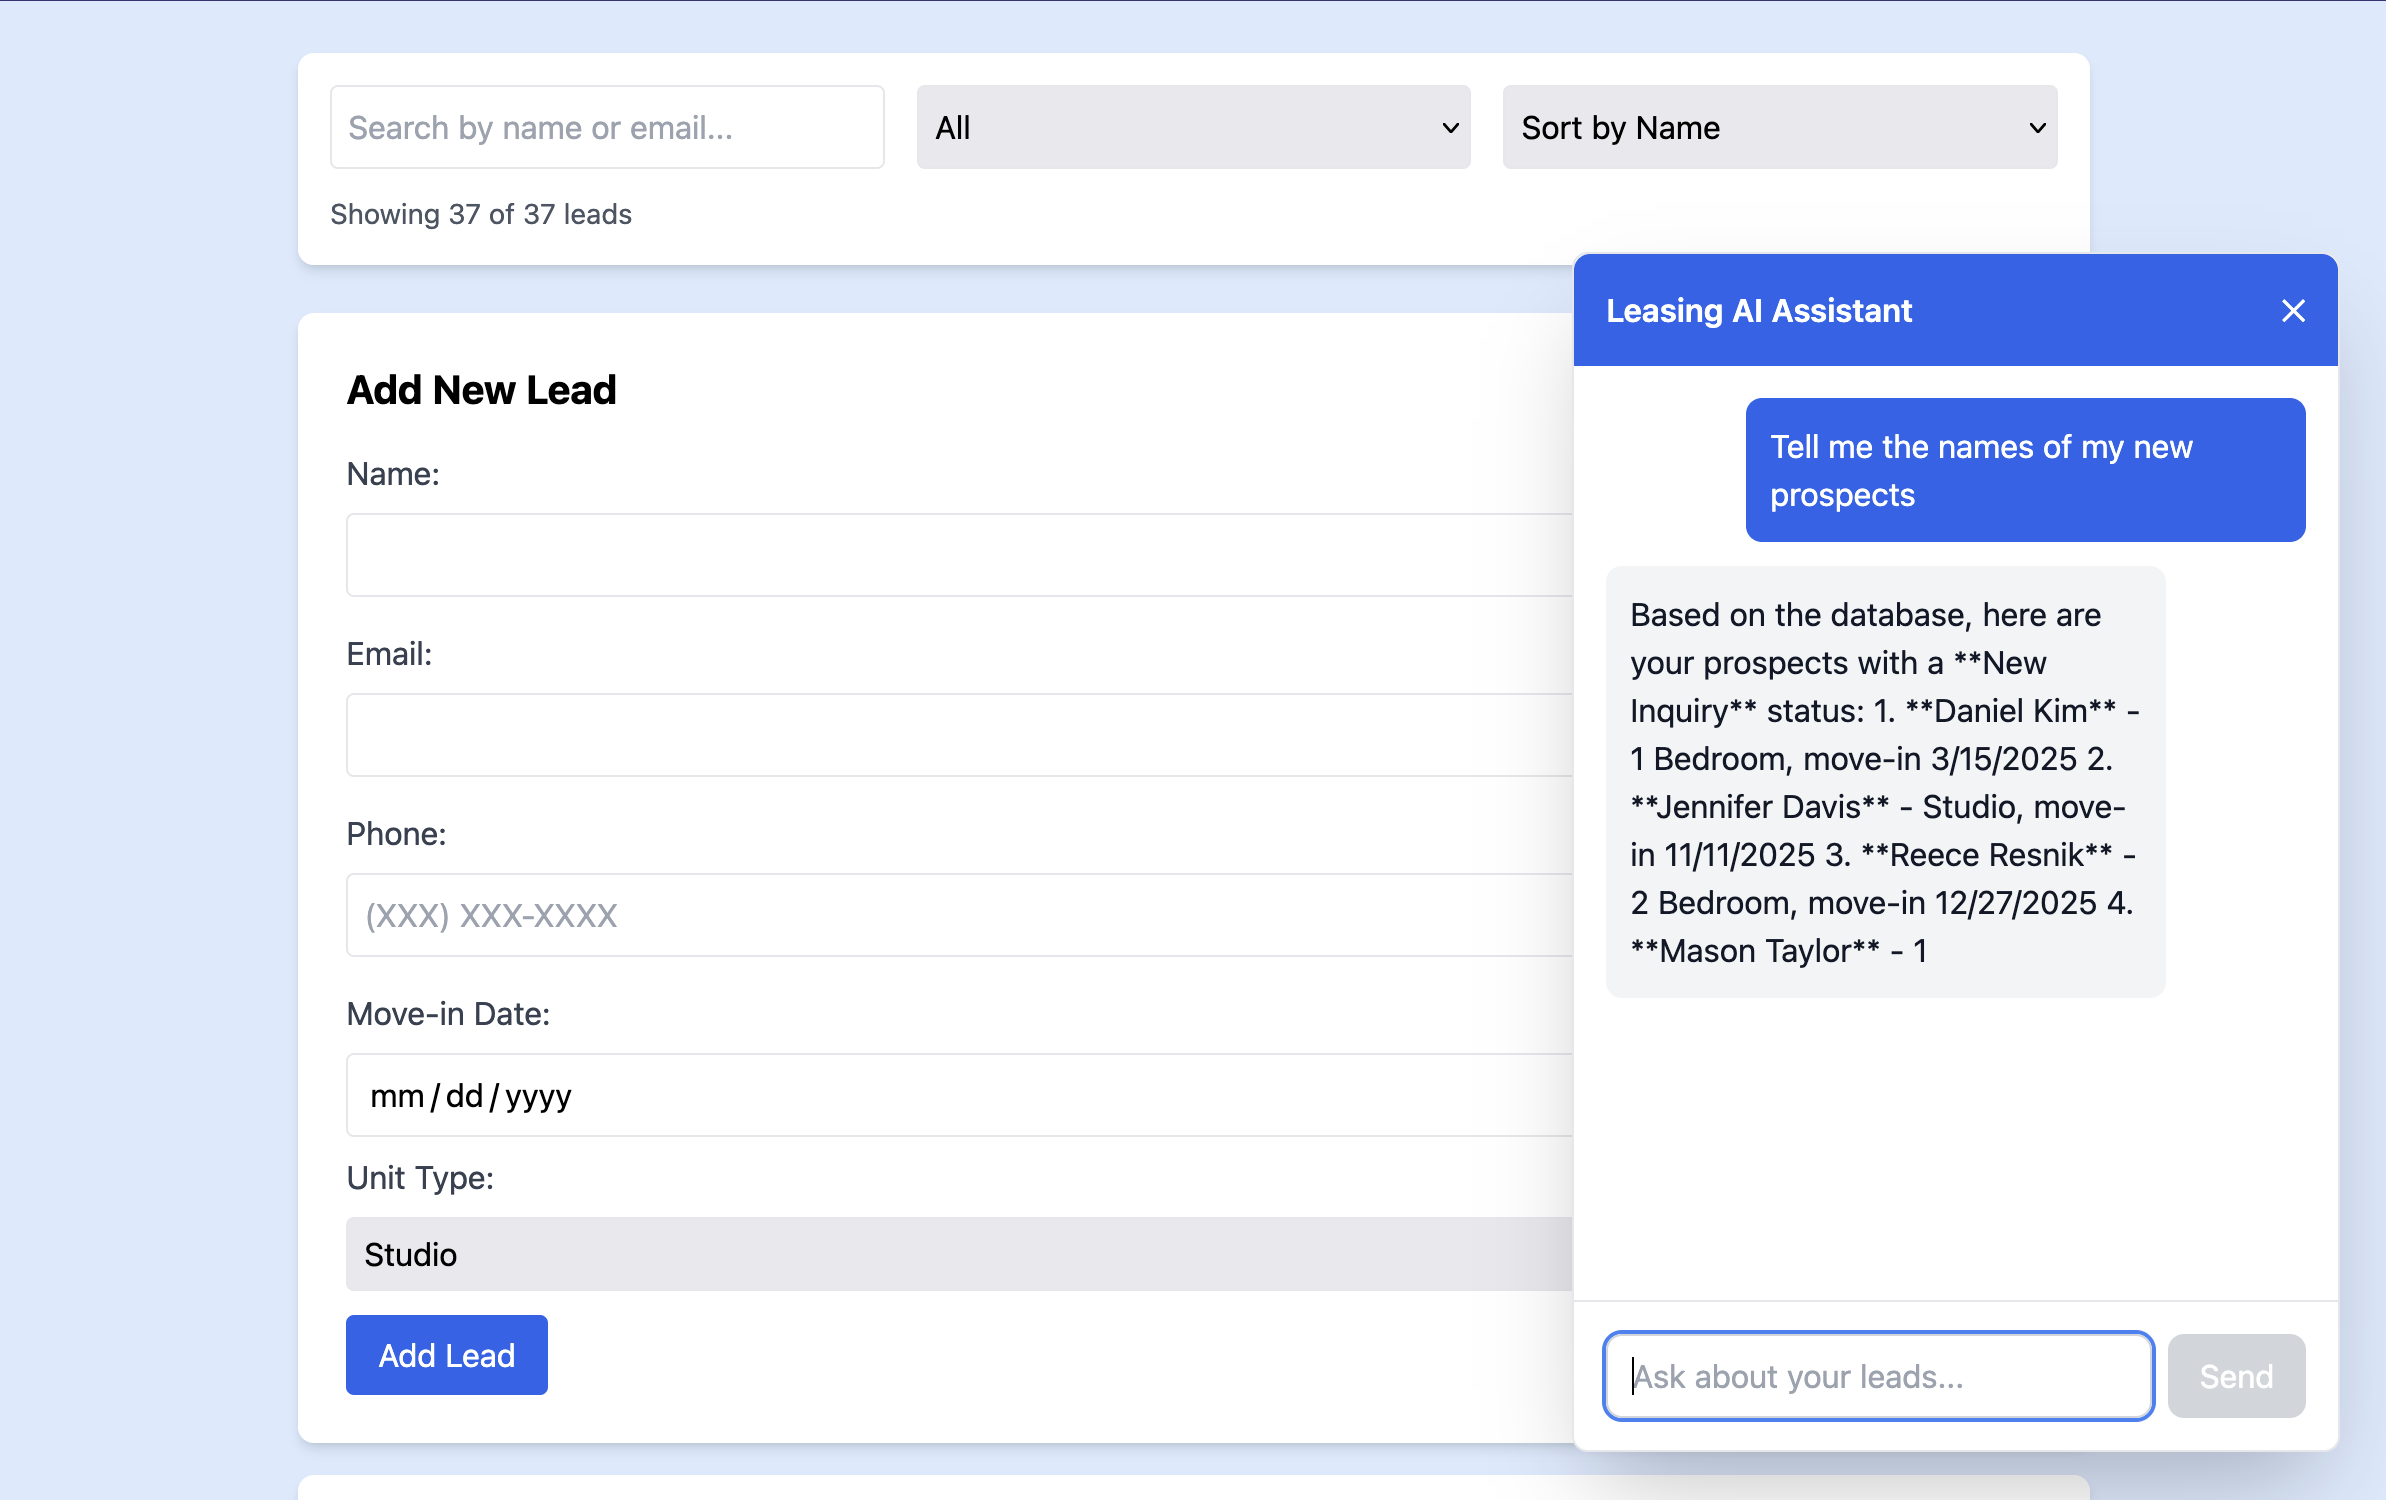
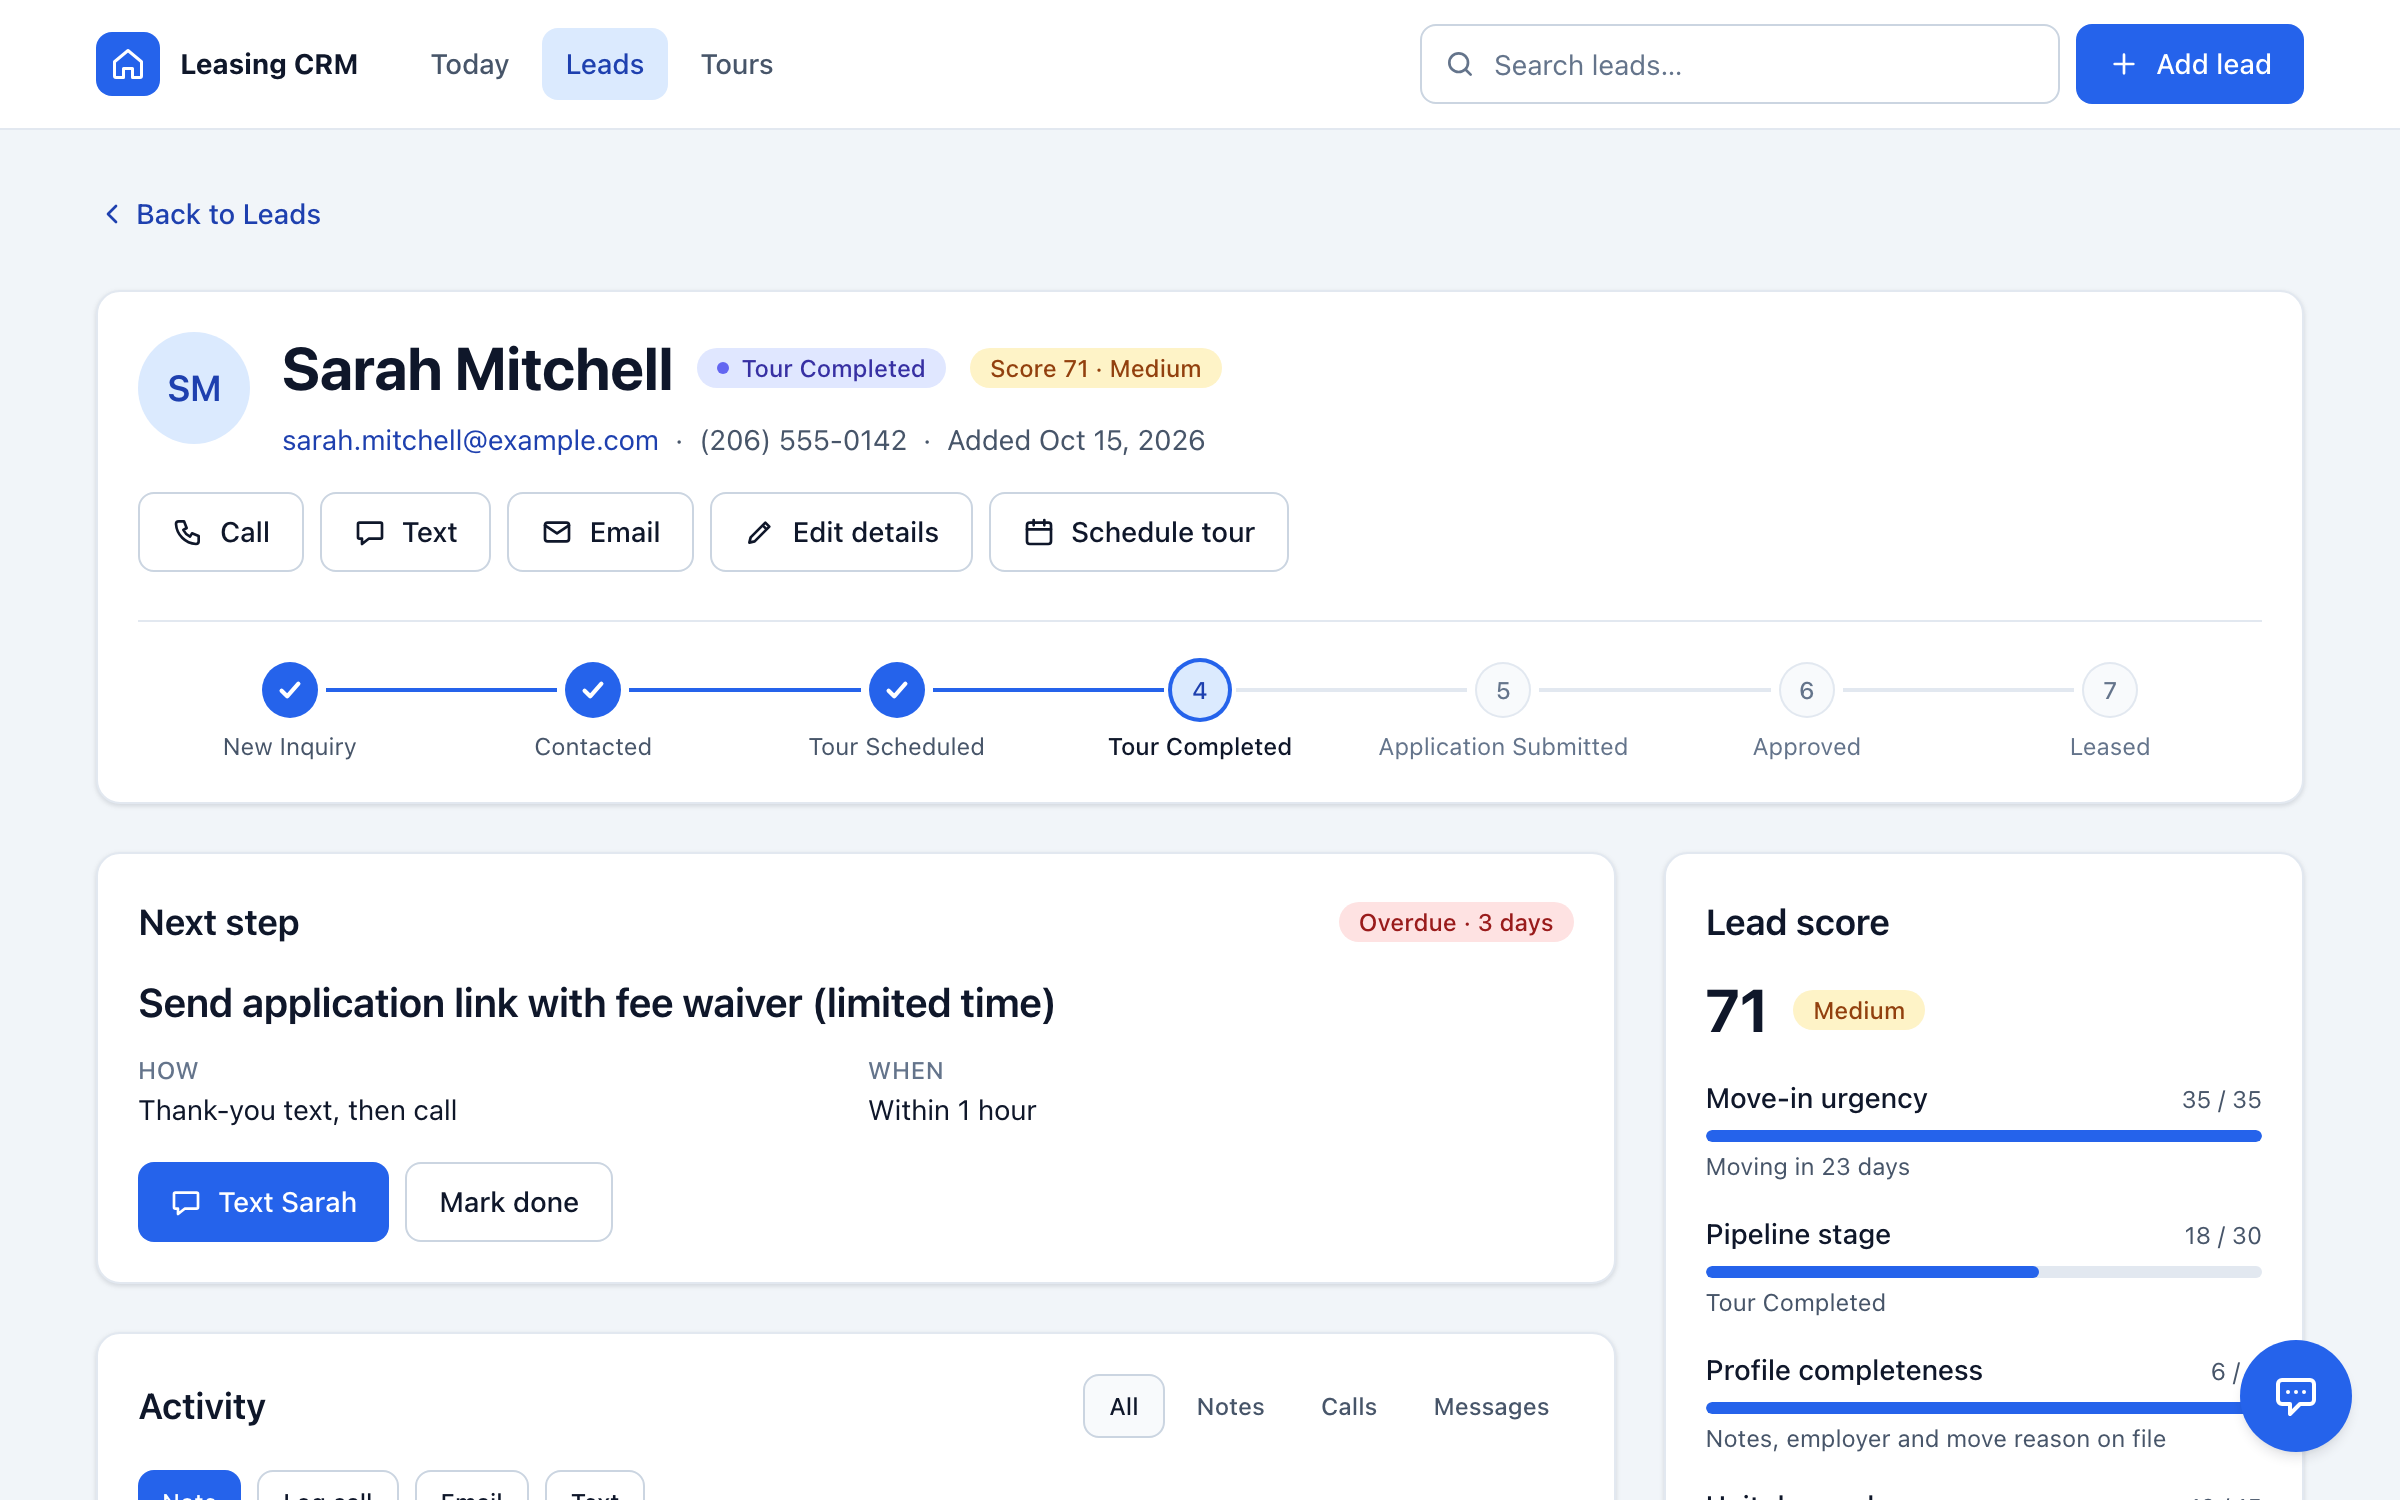
Update the Leasing CRM card for the new app
The Leasing CRM now has a Today dashboard, lead workspaces and a tour
calendar, so the card shows the new app: its image is a lead workspace
from the live site (2400 x 1500, like the other captures), and the copy
describes the new screens. Next.js leaves the technologies, since the
app is React with Vite.

Lighthouse 94 is the median of three mobile performance runs on the
live site. The card keeps to five short points, and its description is
short enough that no grid row grows taller.

diff --git a/app/projects/page.tsx b/app/projects/page.tsx
@@ -27,18 +27,20 @@ const projects: Project[] = [
   },
   {
     title: "Leasing CRM",
-    description: "Web application for tracking leasing leads, lead scores and status management.",
+    description: "CRM for leasing agents with a follow-up dashboard, lead timelines and tour scheduling.",
     link: "https://leasing-crm.vercel.app/",
-    technologies: ["React", "Next.js", "Tailwind CSS", "Claude API", "Python", "FastAPI", "Render", "JavaScript", "Firestore"],
+    technologies: ["React", "Vite", "Tailwind CSS", "Firestore", "Claude API", "Python", "FastAPI", "Vitest", "Vercel", "Render"],
     buildStatus: "success",
     bulletPoints: [
-      "Deployed frontend, backend, and AI worker across Vercel, Render, and Firebase, using environment variables to secure API keys in public repositories.",
-      "Connected Claude API to the frontend for natural language processing capabilities.",
-      "Implemented a lead scoring system using a custom algorithm to prioritize leads based on engagement and interest.",
+      "Built a Today dashboard that ranks follow-ups by lead score and due time.",
+      "Built lead workspaces with an activity timeline, tasks and a score breakdown.",
+      "Added a week calendar for tours that only offers open time slots.",
+      "Scored leads in FastAPI on Render, with a Claude Haiku 5.5 assistant for questions.",
+      "Built a design system on Tailwind tokens and tested the app with 669 Vitest tests.",
     ],
     kind: "Web app",
     image: "/LeasingCRMCapture.png",
-    lighthouse: 91,
+    lighthouse: 94,
     linkType: "live",
   },
   {
